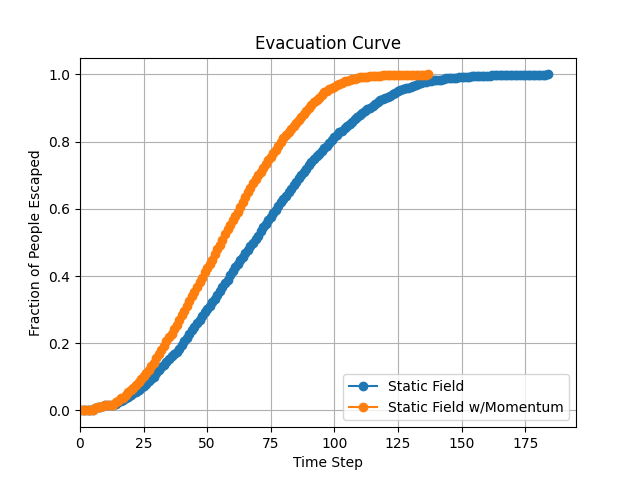
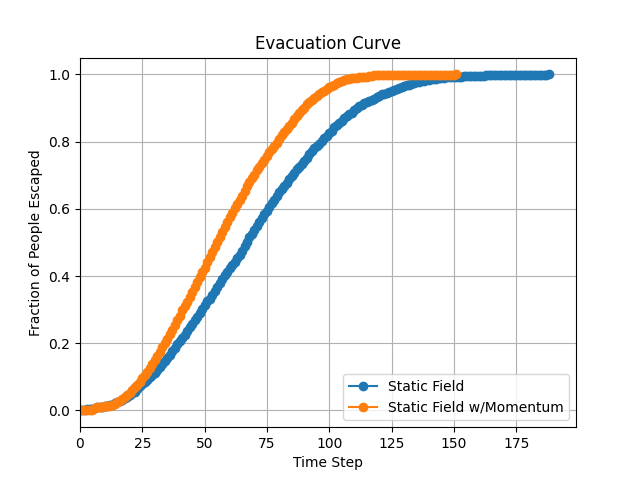
figures

diff --git a/src/figures/coop_vs_time_vs_update.py b/src/figures/coop_vs_time_vs_update.py
@@ -1,0 +1,62 @@
+import os
+import sys
+import json
+from matplotlib import pyplot as plt
+
+
+def find_out_dirs(root_dir) -> list[str]:
+    out_dirs: list[str] = []
+    for dirpath, _, filenames in os.walk(root_dir):
+        for filename in filenames:
+            if filename == "out.json":
+                out_dirs.append(dirpath)
+    return out_dirs
+
+
+if __name__ == "__main__":
+    if len(sys.argv) < 2:
+        print(f"Usage: {sys.argv[0]} <directory>")
+        sys.exit(1)
+
+    root_directory = sys.argv[1]
+
+    if not os.path.isdir(root_directory):
+        print(f"Error: '{root_directory}' is not a directory.")
+        sys.exit(1)
+
+    plt.figure()
+    plt.xlabel("cooperation ratio")
+    plt.ylabel("evacuation time")
+    plt.grid(True)
+    c_values = ["1", "5", "10", "30", "50"]
+    rc_values = ["0.1", "0.2", "0.3",
+                 "0.4", "0.5", "0.6", "0.7", "0.8", "0.9"]
+    for c in c_values:
+        times = []
+        for rc in rc_values:
+            dir_path = os.path.join(
+                root_directory,
+                f"static/env1/coop_{rc}/update_{c}/strat_inertia_0.1"
+            )
+            out_dirs = find_out_dirs(dir_path)
+            total_time = 0
+            count = len(out_dirs)
+            for out_dir in out_dirs:
+                json_path = os.path.join(out_dir, "out.json")
+                try:
+                    with open(json_path, "r") as f:
+                        data = json.load(f)
+                    total_time += len(data.get("escape_time_history", []))
+                except (json.JSONDecodeError, IOError) as e:
+                    print(f"Warning: Could not read {json_path}: {e}")
+            avg_time = total_time / count if count > 0 else 0
+            print(f"c={c}, rc={rc}, avg_time={avg_time}, count={count}")
+            times.append(avg_time)
+        plt.plot(rc_values, times, marker='o')
+    plt.legend([f"c={c}" for c in c_values])
+    plt.title(
+        "Cooperation Percentage vs Evacuation Time\nfor Different Update Intervals")
+    plt.savefig(os.path.join(root_directory, "coop_vs_time_vs_update.png"))
+    plt.close()
+
+    print("Plot saved to 'coop_vs_time_vs_update.png'")

diff --git a/src/figures/escape_curve.py b/src/figures/escape_curve.py
@@ -24,6 +24,7 @@ def sum_escape_times(root_dir):
 
     :param root_dir: Description
     """
+    print(f"\nProcessing directory: {root_dir}")
     global max_time
     json_files = []
 
@@ -56,41 +57,28 @@ def sum_escape_times(root_dir):
                             for arr in escape_times)
         time_steps[t] = escaped_count / total_count
     max_time = max(max_time, max_escape_time + 10)
-    plt.figure()
     plt.plot(list(time_steps.keys()), list(time_steps.values()), marker='o')
+
+
+if __name__ == "__main__":
+    if len(sys.argv) < 2:
+        print(f"Usage: {sys.argv[0]} <directory>")
+        sys.exit(1)
+
+    root_directory = sys.argv[1]
+
+    if not os.path.isdir(root_directory):
+        print(f"Error: '{root_directory}' is not a directory.")
+        sys.exit(1)
+
+    plt.figure()
+    sum_escape_times(f"{root_directory}/static")
+    sum_escape_times(f"{root_directory}/momentum")
     plt.xlabel("Time Step")
     plt.ylabel("Fraction of People Escaped")
-    plt.title(f"Evacuation Curve for {root_dir.split("/")[-1].capitalize()}")
+    plt.title(f"Evacuation Curve")
     plt.xlim(0, max_time)
     plt.grid(True)
-    plt.savefig(os.path.join(root_dir, f"{root_dir.split("/")[-1]}.png"))
+    plt.legend(["Static Field", "Static Field w/Momentum"])
+    plt.savefig(os.path.join(root_directory, "escape_curve.png"))
     plt.close()
-
-
-if __name__ == "__main__":
-    if len(sys.argv) < 2:
-        print(f"Usage: {sys.argv[0]} <directory>")
-        sys.exit(1)
-
-    root_directory = sys.argv[1]
-
-    if not os.path.isdir(root_directory):
-        print(f"Error: '{root_directory}' is not a directory.")
-        sys.exit(1)
-
-    sum_escape_times(root_directory)
-
-
-if __name__ == "__main__":
-    if len(sys.argv) < 2:
-        print(f"Usage: {sys.argv[0]} <directory>")
-        sys.exit(1)
-
-    root_directory = sys.argv[1]
-
-    if not os.path.isdir(root_directory):
-        print(f"Error: '{root_directory}' is not a directory.")
-        sys.exit(1)
-
-    sum_escape_times(f"{root_directory}/momentum")
-    sum_escape_times(f"{root_directory}/static")
